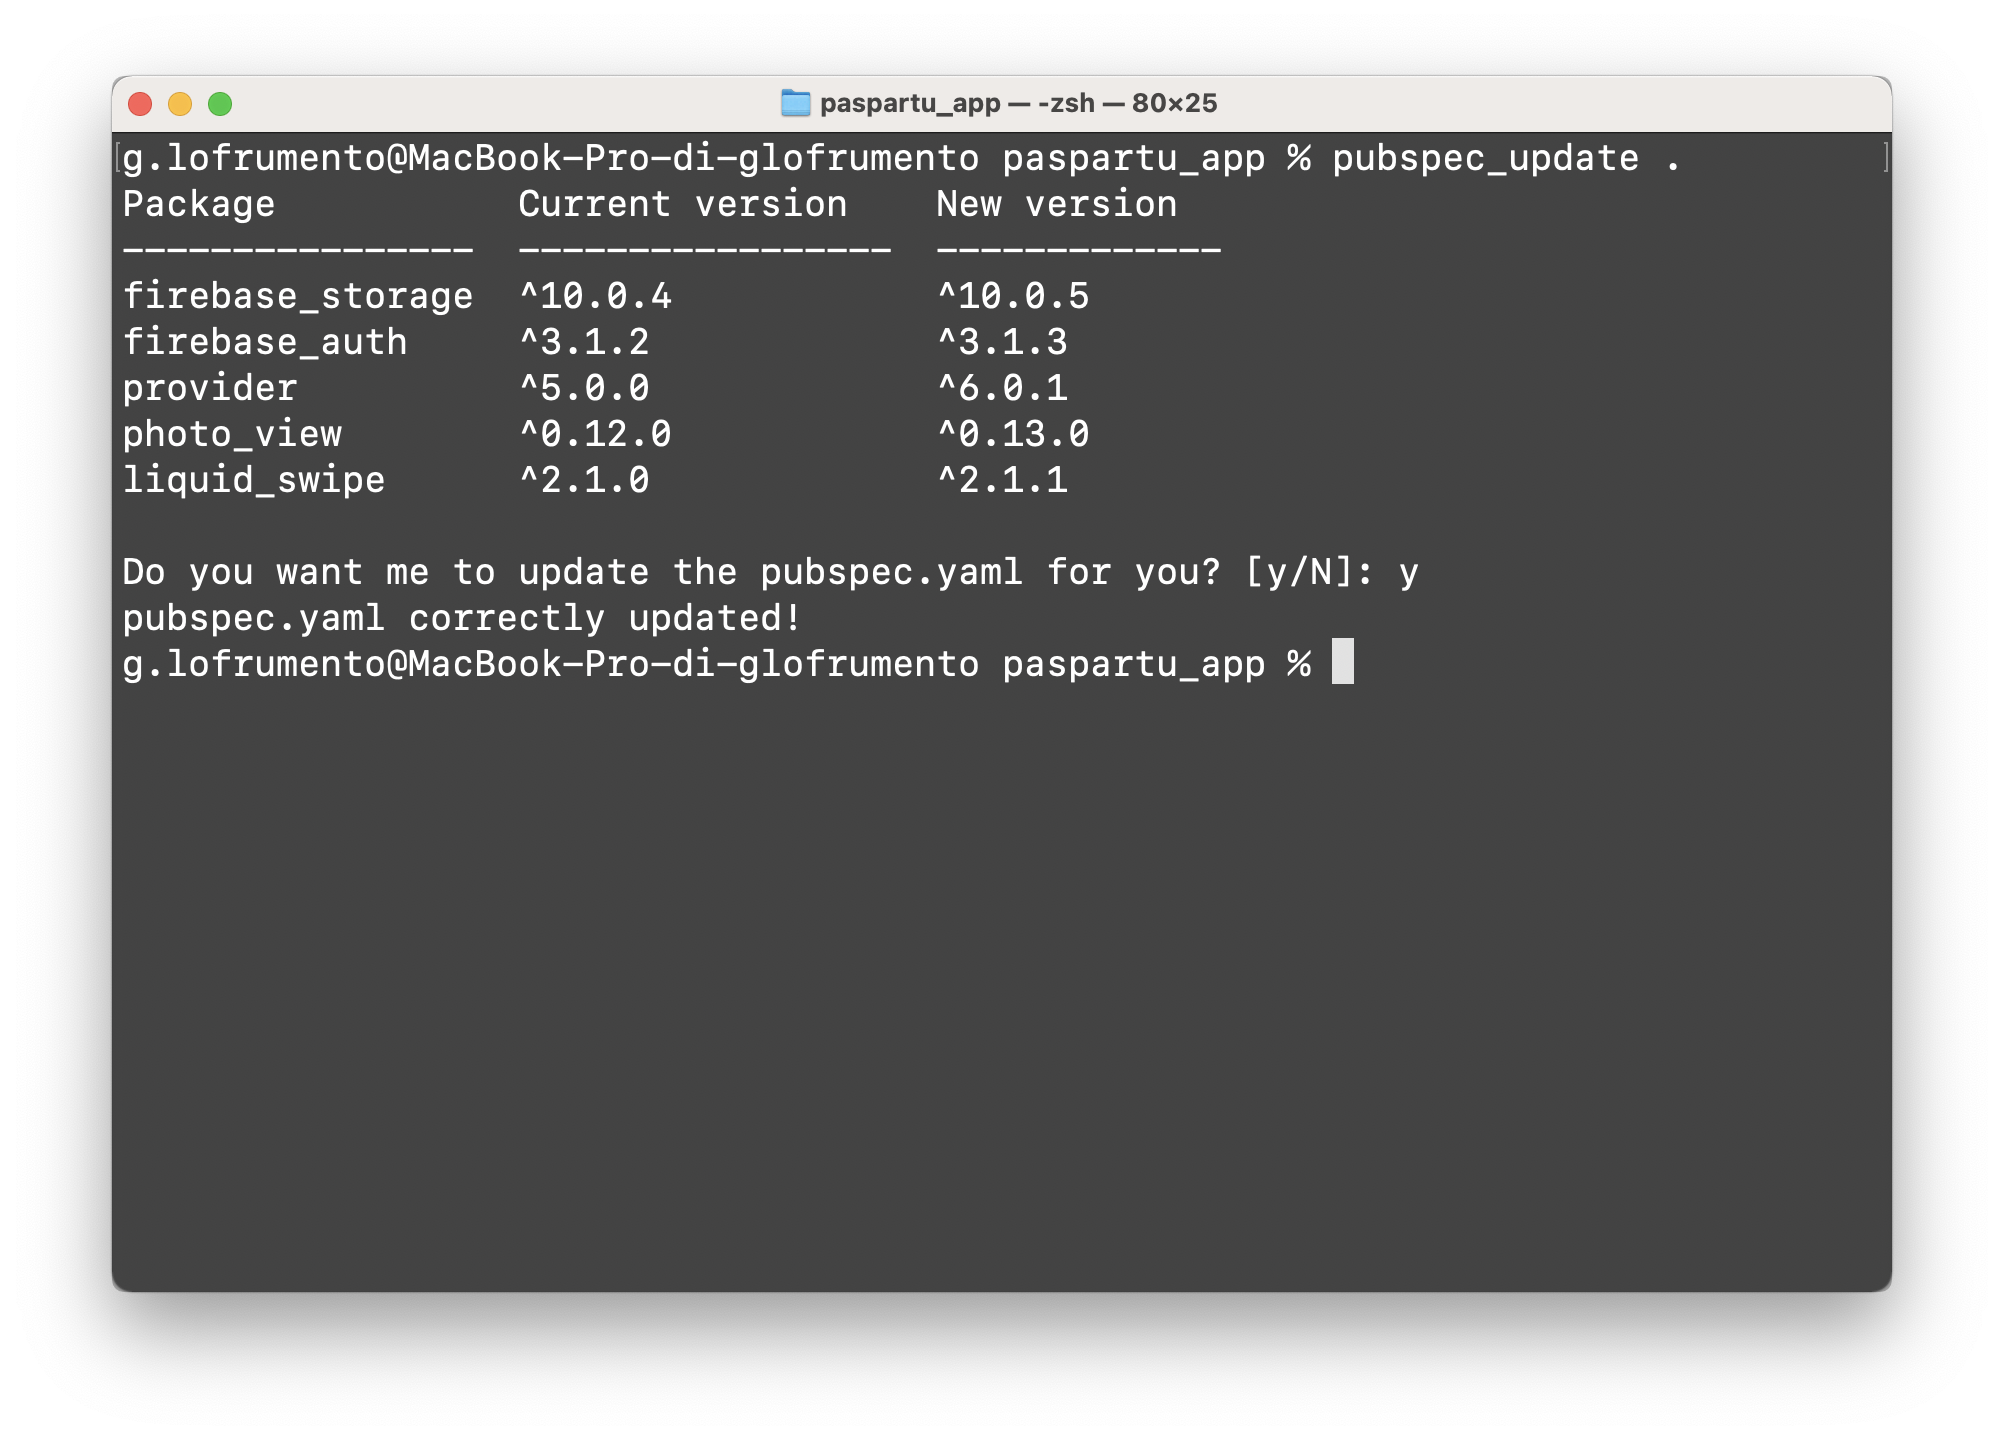
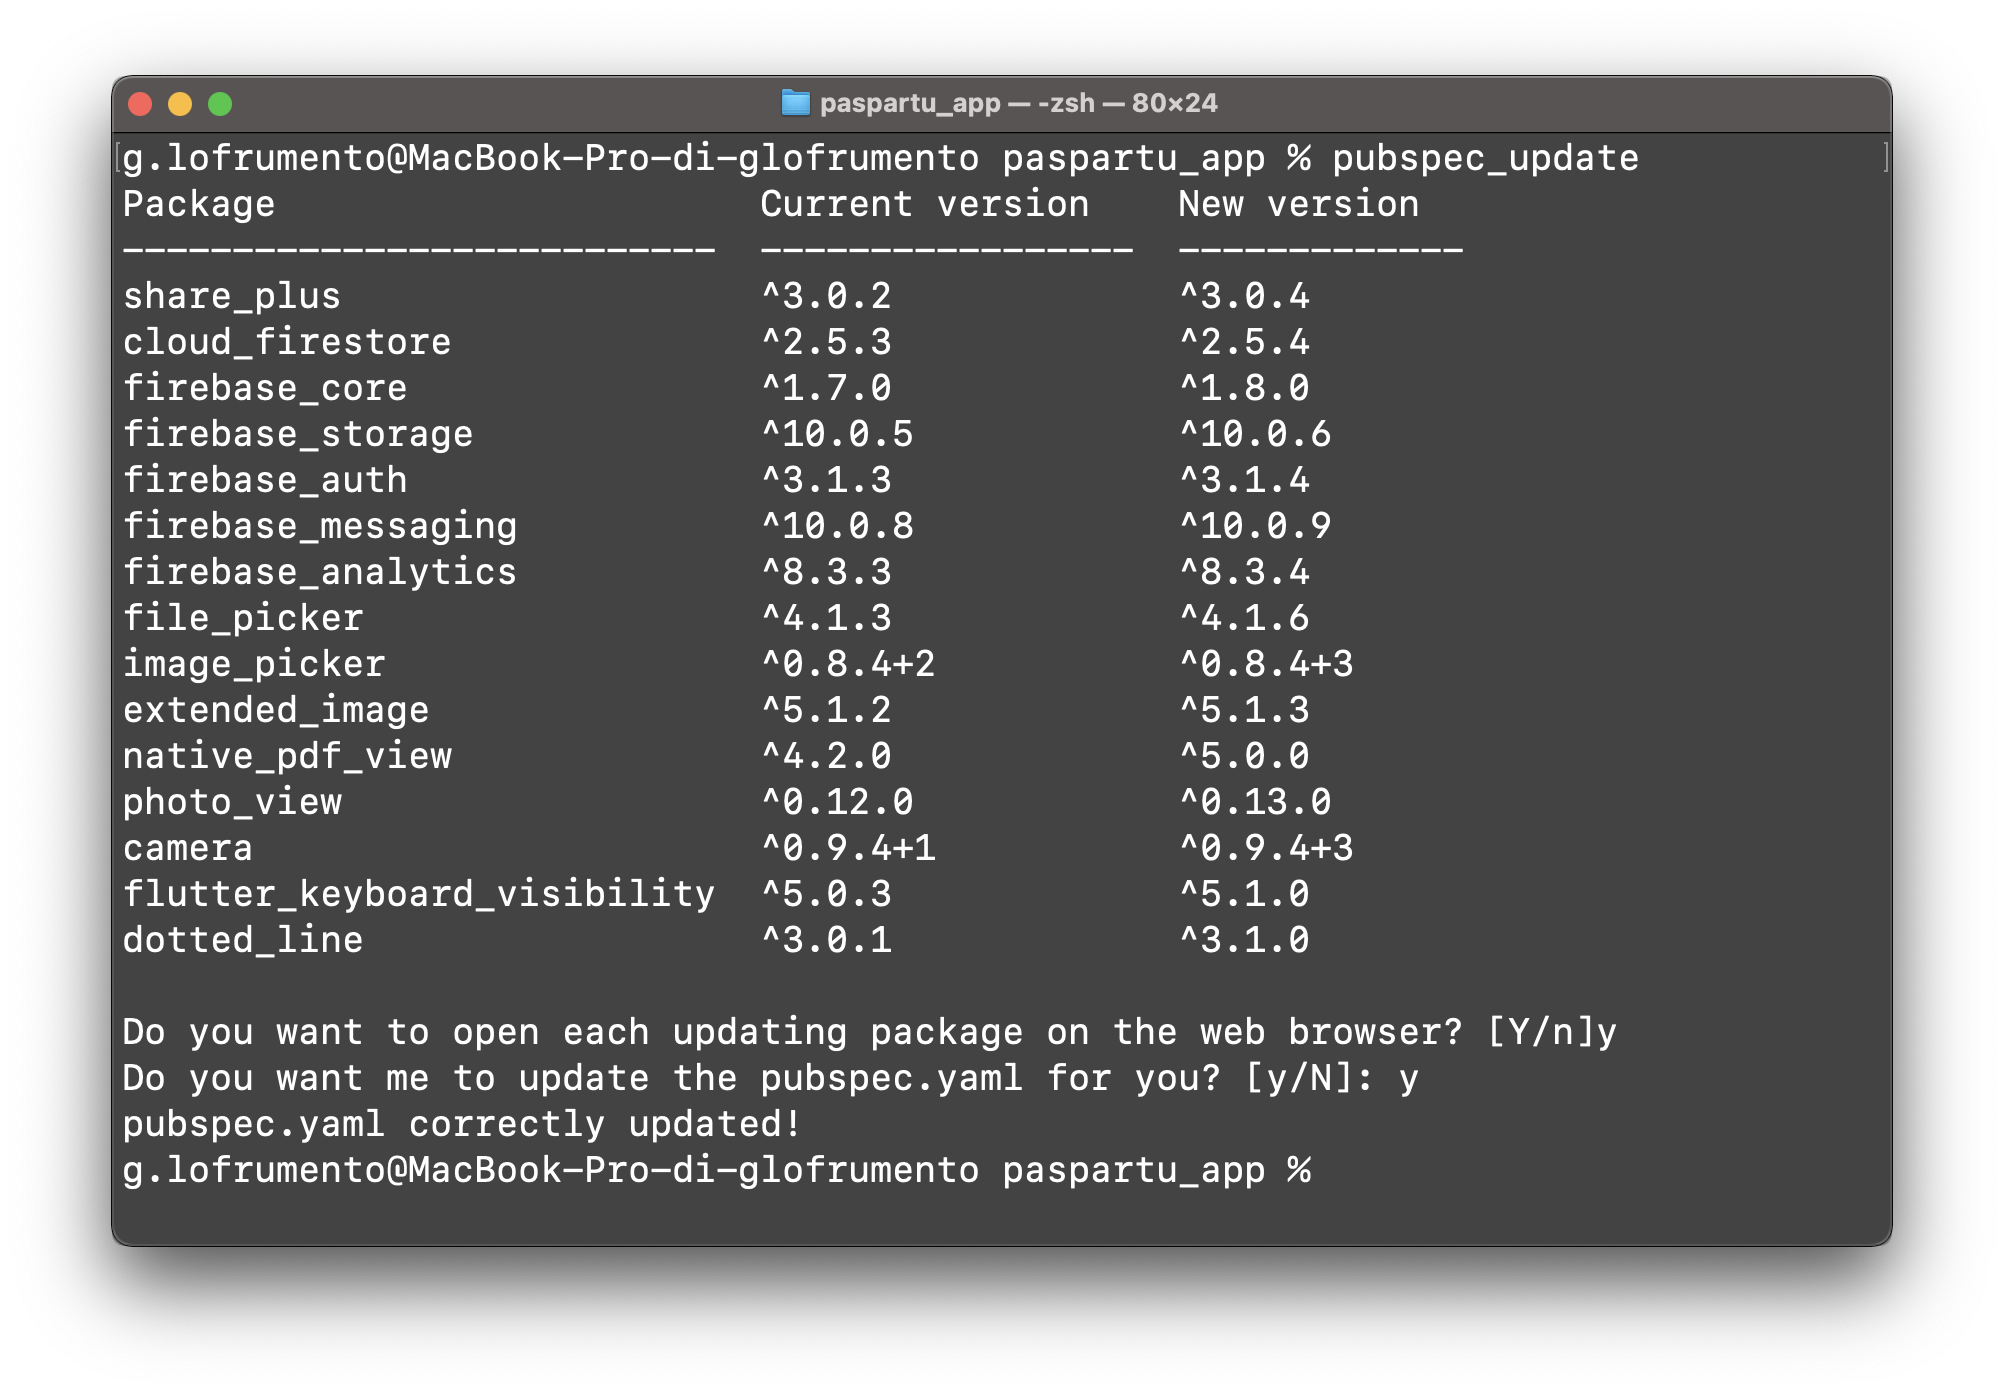
Added version number and browser opening when asked by the user

diff --git a/setup.py b/setup.py
@@ -2,7 +2,7 @@ from setuptools import setup
 
 setup(
     name="Flutter pubspec updater",
-    version="1.0",
+    version="1.1",
     author="Gianluca Lofrumento",
     author_email="gianluca.lofrumento@gmail.com",
     description="Update all the packages in pubspec.yaml of a Flutter project.",

diff --git a/README.md b/README.md
@@ -10,13 +10,19 @@ Just run `INSTALL.sh`, this will add the command `pubspec_update` in your termin
 
 ## Usage
 
-Run `pubspec_update` passing as an argument either the path of the Flutter project or the *pubspec.yaml* file. Example:
+Run `pubspec_update` passing an empty argument or, alternatively, either the path of the Flutter project or the *pubspec.yaml* file. Example:
 
+- `pubspect_update`, this will take as path the current working directory.
 - `pubspect_update ~/my/flutter/project`
 - `pubspect_update ~/my/flutter/project/pubspec.yaml`
 
-The tool will print a table with all the packages that need an update. This table contains the package name, the current version in the *pubspec* and the newer version available on [pub.dev]().
+The tool will print a table with all the packages that need an update. This table contains the package name, the current version in the *pubspec* and the newer version available on [pub.dev](https://pub.dev).
 
 ![1](README_images/1.png)
 
-After the table, it will be asked you whether you want the tool to update directly the *pubspec.yaml* file. This will not alter your file structure at all — comments will stay, order or the package will stay, etc.
+Immediately after, two questions will be asked:
+
+- Whether you want the tool to open the browser on the changelog page of every package.
+- Whether you want the tool to automatically update the `pubspec.yaml` file without altering the file structure at all — like comments, package orders, etc.
+
+Enjoy!
